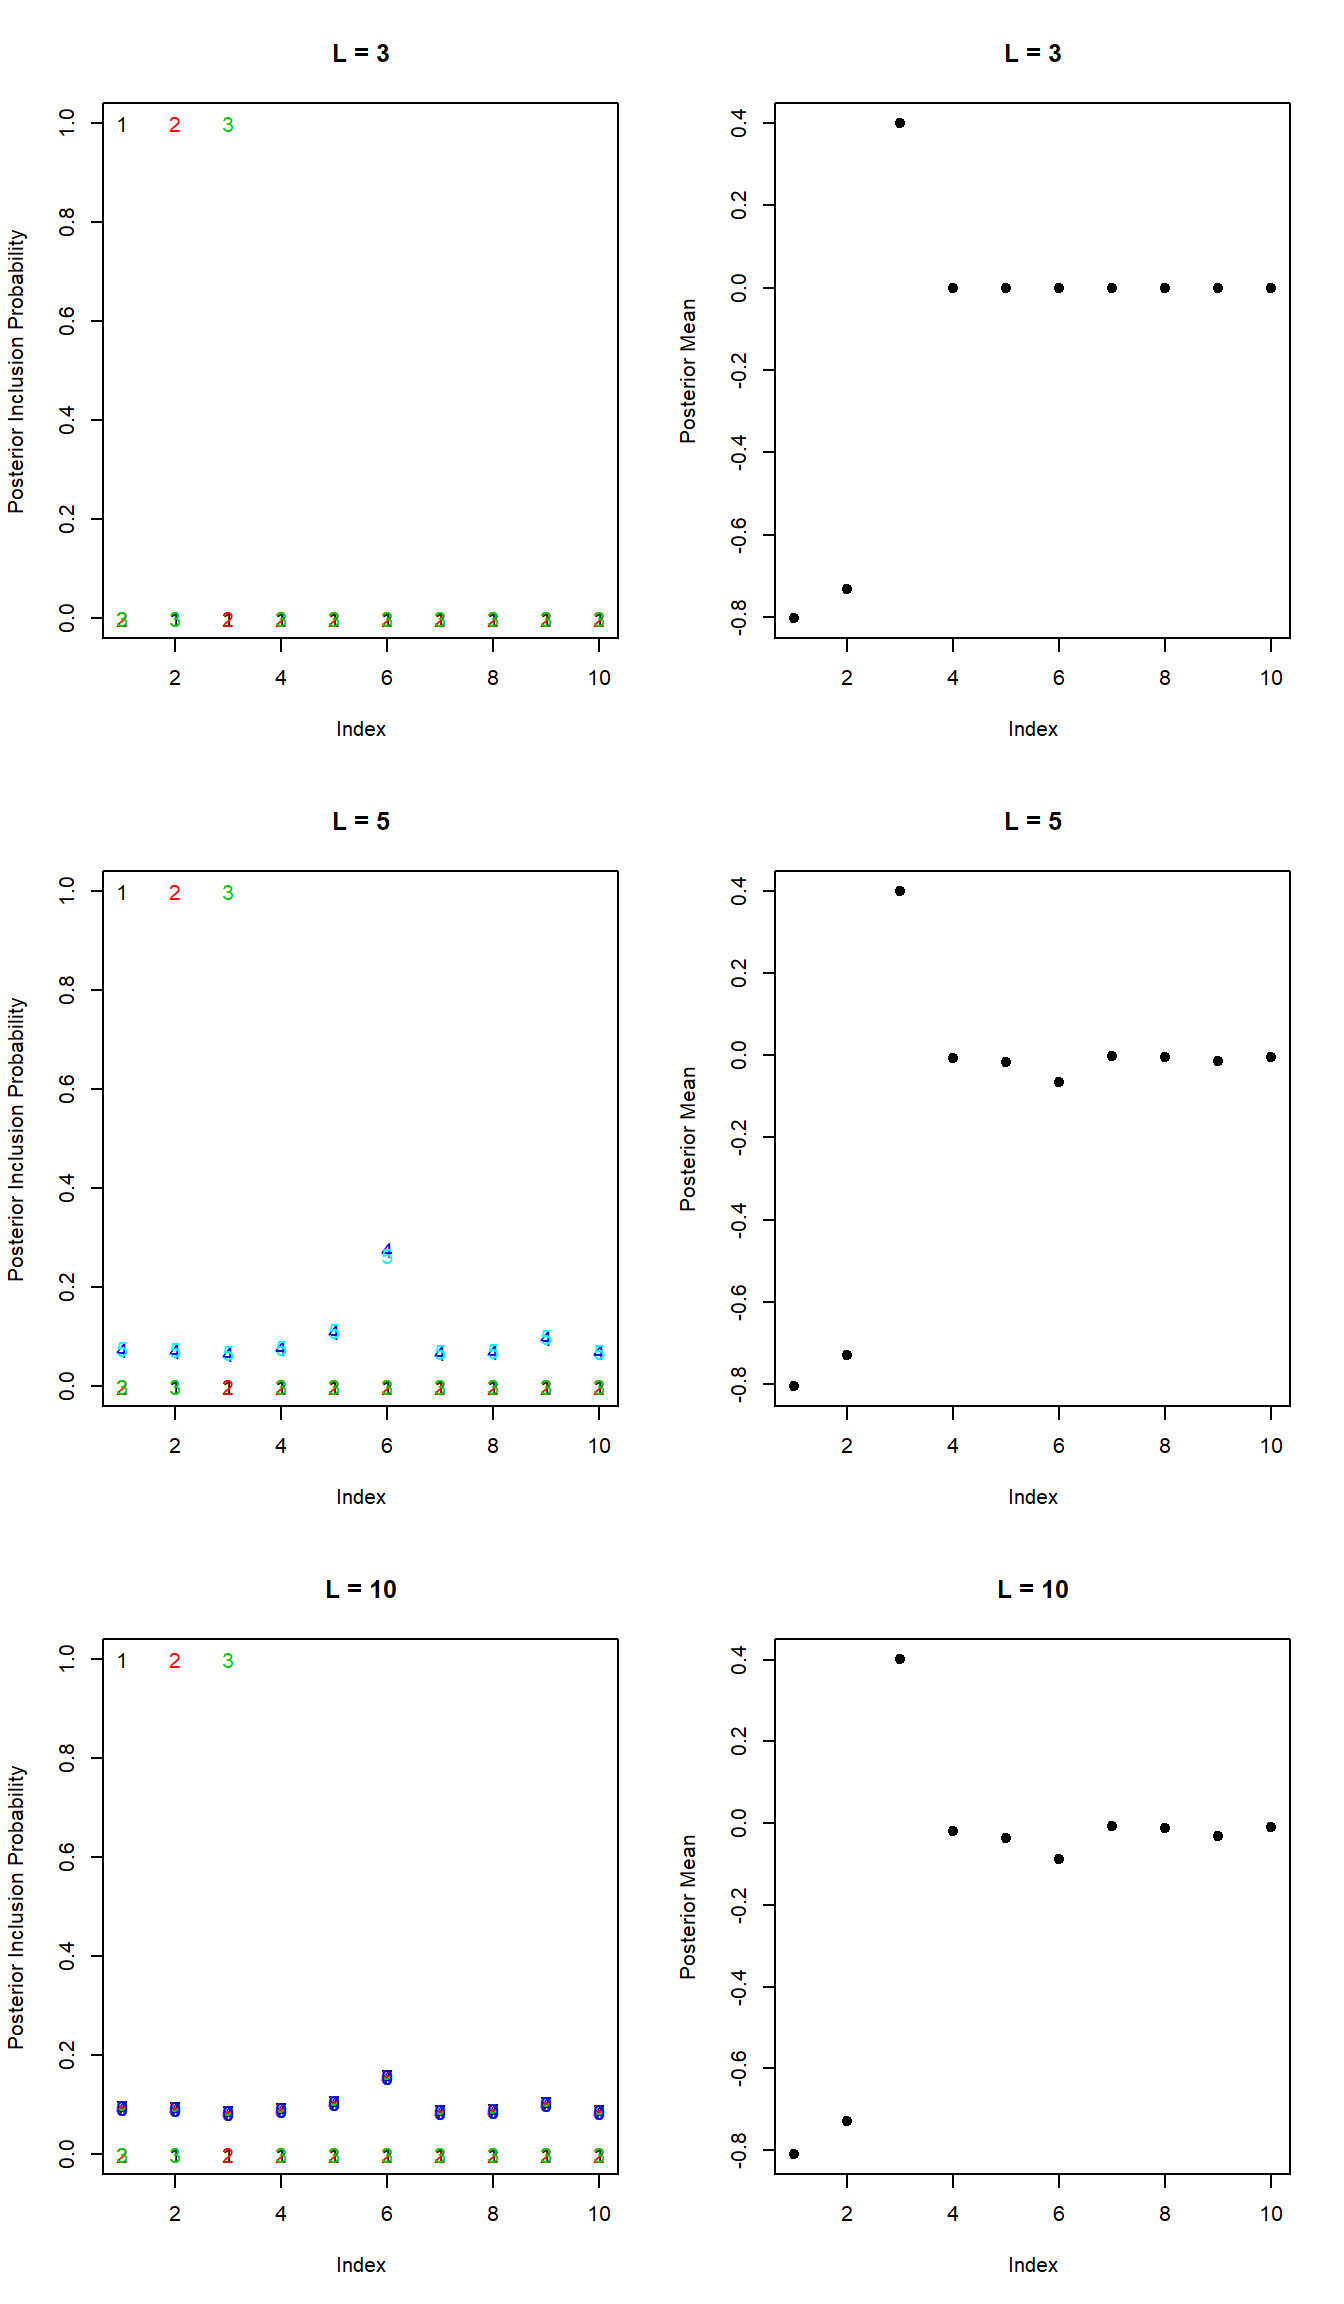
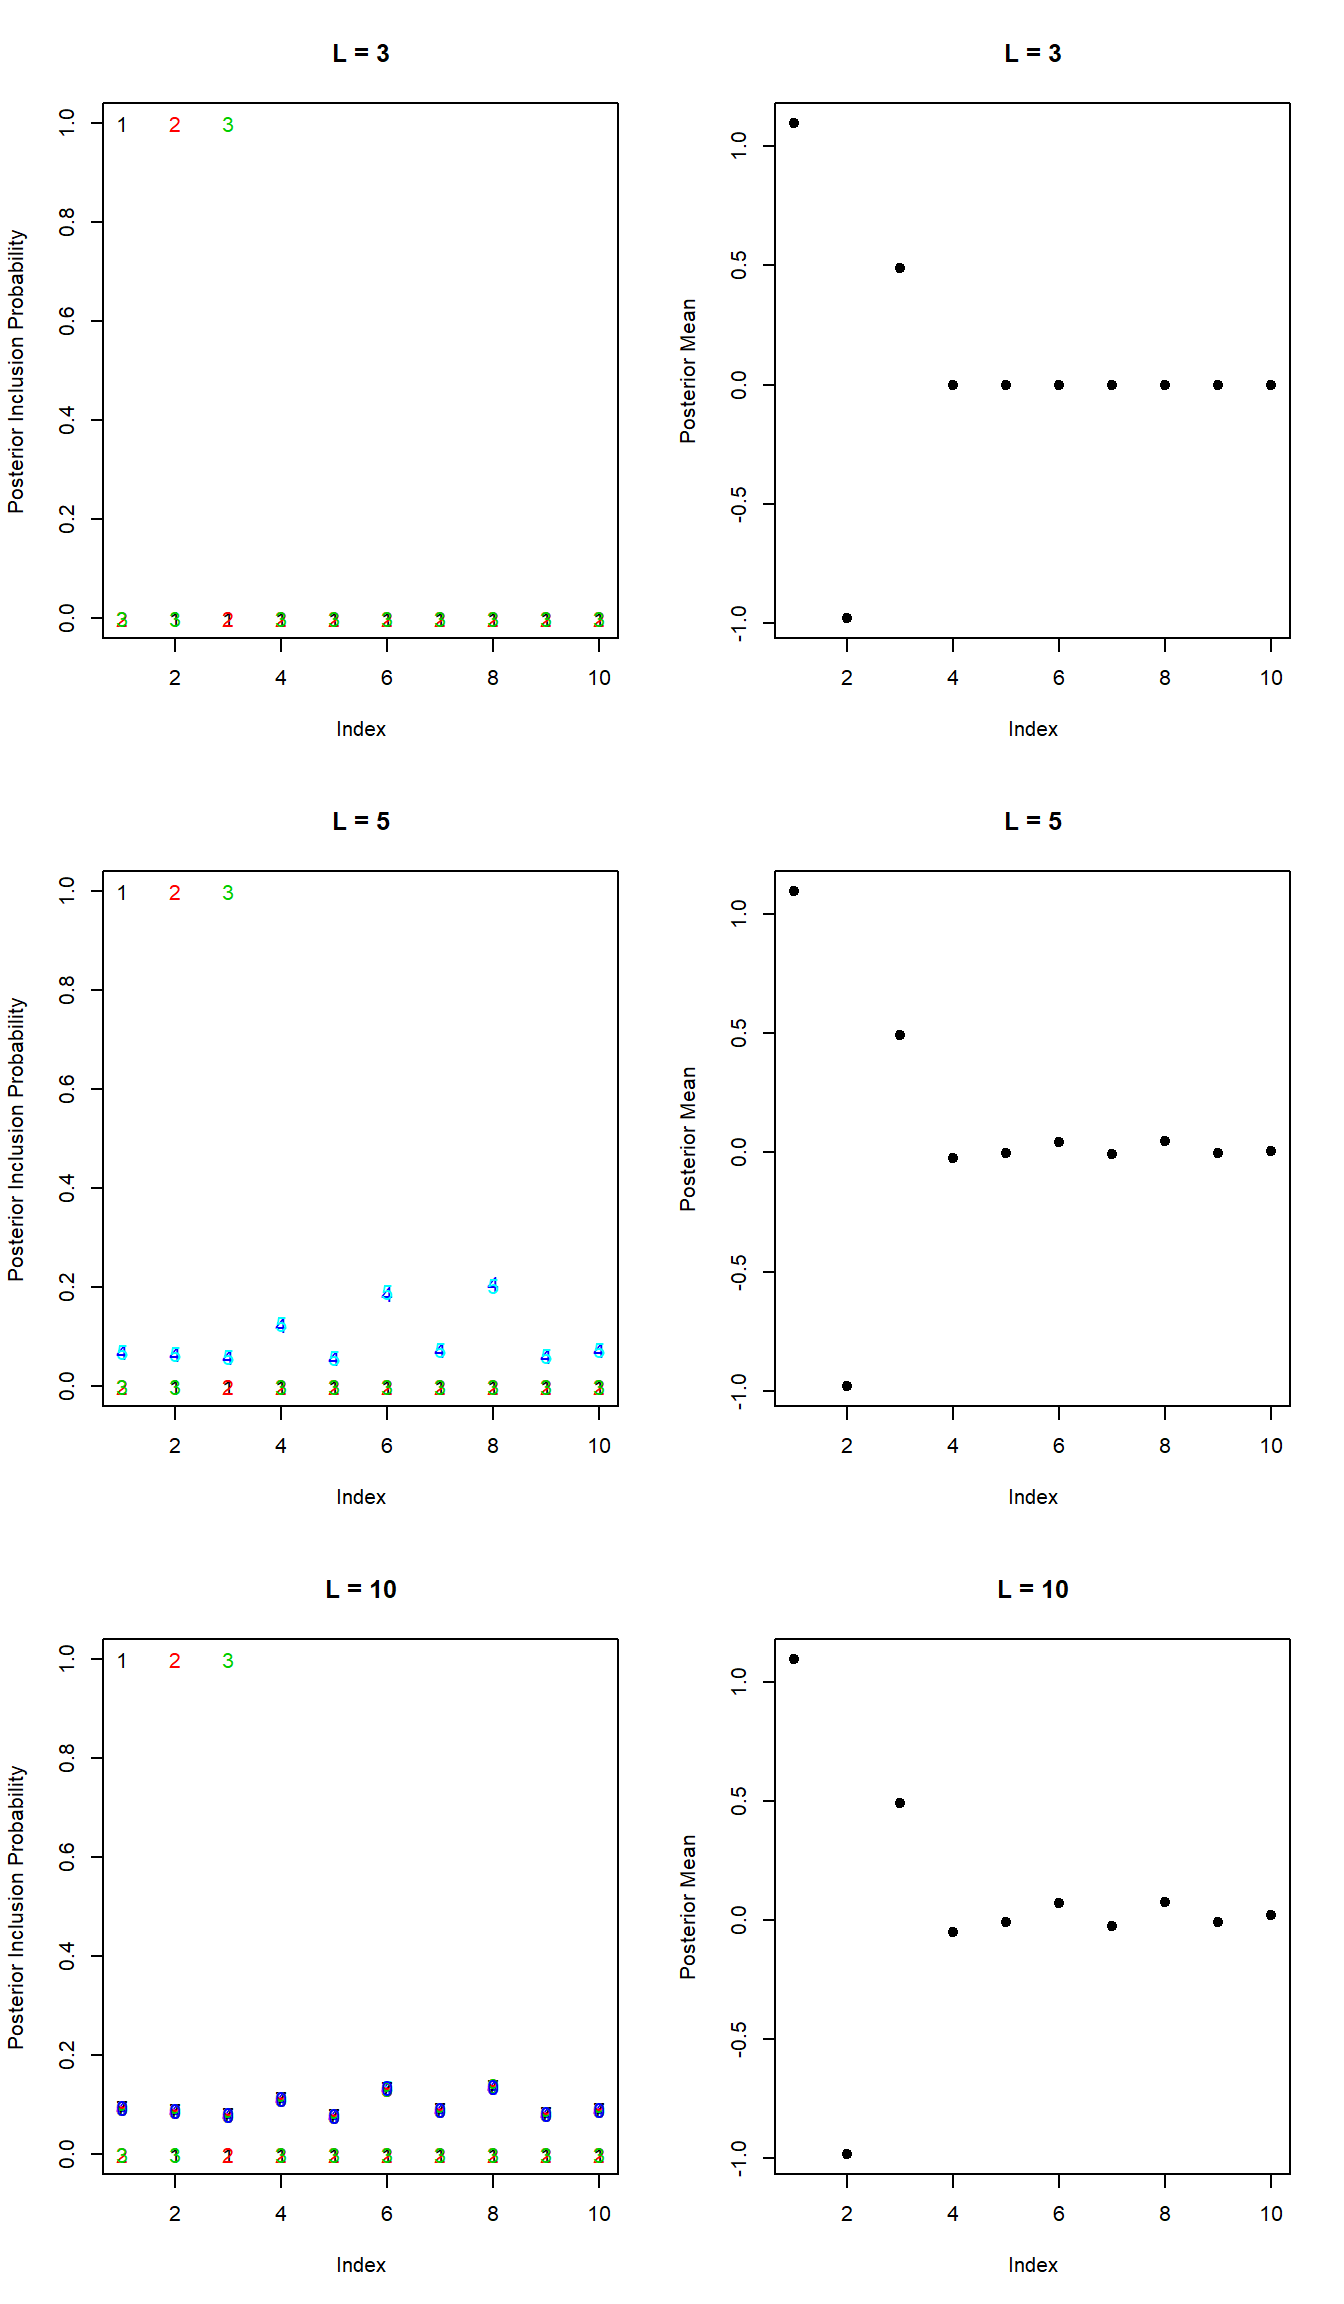
Build site.

diff --git a/docs/susie_logistic_demonstration.html b/docs/susie_logistic_demonstration.html
@@ -11,7 +11,6 @@
 
 <meta name="author" content="Andrew Goldstein" />
 
-<meta name="date" content="2019-04-30" />
 
 <title>susieR Logistic Regression GLM</title>
 
@@ -338,12 +337,12 @@ div.section {
 
 <h1 class="title toc-ignore">susieR Logistic Regression GLM</h1>
 <h4 class="author"><em>Andrew Goldstein</em></h4>
-<h4 class="date"><em>April 30, 2019</em></h4>
+<h4 class="date"><em>May 3, 2019</em></h4>
 
 </div>
 
 
-<p><strong>Last updated:</strong> 2019-05-02</p>
+<p><strong>Last updated:</strong> 2019-05-03</p>
 <strong>workflowr checks:</strong> <small>(Click a bullet for more information)</small>
 <ul>
 <li>
@@ -367,7 +366,7 @@ div.section {
 </details>
 </li>
 <li>
-<p><details> <summary> <strong style="color:blue;">✔</strong> <strong>Repository version:</strong> <a href="https://github.com/andrewg3311/susieR_logistic_wflow/tree/a7b906770e907602fa94c2fd196108062142418b" target="_blank">a7b9067</a> </summary></p>
+<p><details> <summary> <strong style="color:blue;">✔</strong> <strong>Repository version:</strong> <a href="https://github.com/andrewg3311/susieR_logistic_wflow/tree/c66144460f0c18fcb3603a2c1ac1c2cfc814fba4" target="_blank">c661444</a> </summary></p>
 Great! You are using Git for version control. Tracking code development and connecting the code version to the results is critical for reproducibility. The version displayed above was the version of the Git repository at the time these results were generated. <br><br> Note that you need to be careful to ensure that all relevant files for the analysis have been committed to Git prior to generating the results (you can use <code>wflow_publish</code> or <code>wflow_git_commit</code>). workflowr only checks the R Markdown file, but you know if there are other scripts or data files that it depends on. Below is the status of the Git repository when the results were generated:
 <pre><code>
 Ignored files:
@@ -402,6 +401,40 @@ Message
 </tr>
 </thead>
 <tbody>
+<tr>
+<td style="text-align:left;">
+Rmd
+</td>
+<td style="text-align:left;">
+<a href="https://github.com/andrewg3311/susieR_logistic_wflow/blob/c66144460f0c18fcb3603a2c1ac1c2cfc814fba4/analysis/susie_logistic_demonstration.Rmd" target="_blank">c661444</a>
+</td>
+<td style="text-align:left;">
+Andrew Goldstein
+</td>
+<td style="text-align:left;">
+2019-05-03
+</td>
+<td style="text-align:left;">
+Slightly modifying incorrect L plots
+</td>
+</tr>
+<tr>
+<td style="text-align:left;">
+html
+</td>
+<td style="text-align:left;">
+<a href="https://cdn.rawgit.com/andrewg3311/susieR_logistic_wflow/768cdd02d92741e688ec741e164bc90477545721/docs/susie_logistic_demonstration.html" target="_blank">768cdd0</a>
+</td>
+<td style="text-align:left;">
+Andrew Goldstein
+</td>
+<td style="text-align:left;">
+2019-05-02
+</td>
+<td style="text-align:left;">
+Build site.
+</td>
+</tr>
 <tr>
 <td style="text-align:left;">
 Rmd
@@ -3983,14 +4016,15 @@ Andrew Goldstein
 <div id="misspecified-l" class="section level2">
 <h2>Misspecified <span class="math inline">\(L\)</span></h2>
 <p>In regular SuSiE, the algorithm is robust to misspecifying the value for <span class="math inline">\(L\)</span>. For instance, say there are 3 true groups of correlated predictors. Then even we specify, say, <span class="math inline">\(L = 5\)</span>, the algorithm will give us 3 meaningful credible sets and 7 impure ones (see sections 3.4.2 and 3.5 of the SuSiE paper). In this section, I show via example that this appears to hold true in the logistic version as well.</p>
-<p>For example, consider the easy case where <span class="math inline">\(n = 1000\)</span>, <span class="math inline">\(p = 10\)</span>, each entry <span class="math inline">\(X_{ij} \stackrel{iid}{\sim} \mathcal{N}(0, 1)\)</span>, and the first three effects are iid <span class="math inline">\(\mathcal{N}(0, 1)\)</span>. I test when I set <span class="math inline">\(L = 3\)</span> (the optimal value), <span class="math inline">\(L = 5\)</span>, and <span class="math inline">\(L = 10\)</span>.</p>
+<p>For example, consider the easy case where <span class="math inline">\(n = 1000\)</span>, <span class="math inline">\(p = 10\)</span>, each entry <span class="math inline">\(X_{ij} \stackrel{iid}{\sim} \mathcal{N}(0, 1)\)</span>, and the first three effects are <span class="math inline">\(b_1 = 1, b_2 = -0.75, b_3 = 0.5\)</span>. I test when I set <span class="math inline">\(L = 3\)</span> (the optimal value), <span class="math inline">\(L = 5\)</span>, and <span class="math inline">\(L = 10\)</span>.</p>
 <pre class="r"><code>set.seed(1138)
 
 n = 1000
 p = 10
 L = 1
 beta_true = rep(0, p)
-beta_true[1:3] = rnorm(3)
+beta_true[1:3] = c(1, -.75, .5)
+V = 1
 
 X = matrix(rnorm(n * p), nrow = n)
 # make response
@@ -4009,8 +4043,38 @@ plot(rowSums(fit.susie.log3$post_alpha * fit.susie.log3$post_mu), xlab = &quot;I
 plot(rowSums(fit.susie.log5$post_alpha * fit.susie.log5$post_mu), xlab = &quot;Index&quot;, ylab = &quot;Posterior Mean&quot;, main = &quot;L = 5&quot;, pch = 19)
 plot(rowSums(fit.susie.log10$post_alpha * fit.susie.log10$post_mu), xlab = &quot;Index&quot;, ylab = &quot;Posterior Mean&quot;, main = &quot;L = 10&quot;, pch = 19)</code></pre>
 <p><img src="figure/susie_logistic_demonstration.Rmd/unnamed-chunk-25-1.png" width="672" style="display: block; margin: auto;" /></p>
+<details> <summary><em>Expand here to see past versions of unnamed-chunk-25-1.png:</em></summary>
+<table style="border-collapse:separate; border-spacing:5px;">
+<thead>
+<tr>
+<th style="text-align:left;">
+Version
+</th>
+<th style="text-align:left;">
+Author
+</th>
+<th style="text-align:left;">
+Date
+</th>
+</tr>
+</thead>
+<tbody>
+<tr>
+<td style="text-align:left;">
+<a href="https://github.com/andrewg3311/susieR_logistic_wflow/blob/768cdd02d92741e688ec741e164bc90477545721/docs/figure/susie_logistic_demonstration.Rmd/unnamed-chunk-25-1.png" target="_blank">768cdd0</a>
+</td>
+<td style="text-align:left;">
+Andrew Goldstein
+</td>
+<td style="text-align:left;">
+2019-05-02
+</td>
+</tr>
+</tbody>
+</table>
+<p></details></p>
 <pre class="r"><code>par(mfcol = c(1, 1))</code></pre>
-<p>We can see that having a value of <span class="math inline">\(L\)</span> too large adds groups with a lot of impurity in the PIPs (these groups being roughly identical). Unsurprisingly, since our PIPs are forced to sum to 1, adding more groups will always add to the posterior means of each coefficient (assuming effects from different groups don’t cancel out due to having opposite signs). We can see this on the right side of the plots above (for <span class="math inline">\(L = 3\)</span>, coefficients 4-10 are close to 0, but for <span class="math inline">\(L = 5\)</span> and <span class="math inline">\(L = 10\)</span>, these effects start to deviate from 0).</p>
+<p>We can see that having a value of <span class="math inline">\(L\)</span> too large adds groups with a lot of impurity in the PIPs (these groups being roughly identical, which is peculiar to me). Unsurprisingly, since our PIPs are forced to sum to 1, adding more groups will always add to the posterior means of each coefficient (assuming effects from different groups don’t cancel out due to having opposite signs). We can see this on the right side of the plots above (for <span class="math inline">\(L = 3\)</span>, coefficients 4-10 are close to 0, but for <span class="math inline">\(L = 5\)</span> and <span class="math inline">\(L = 10\)</span>, these effects start to deviate from 0).</p>
 </div>
 <div id="session-information" class="section level2">
 <h2>Session information</h2>
